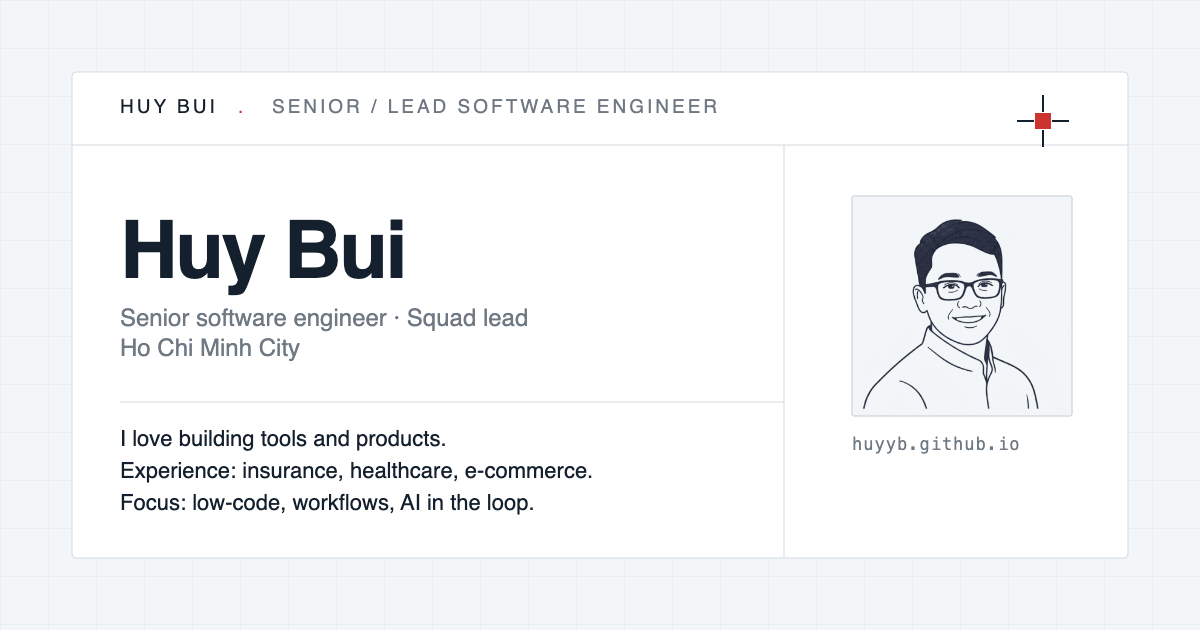
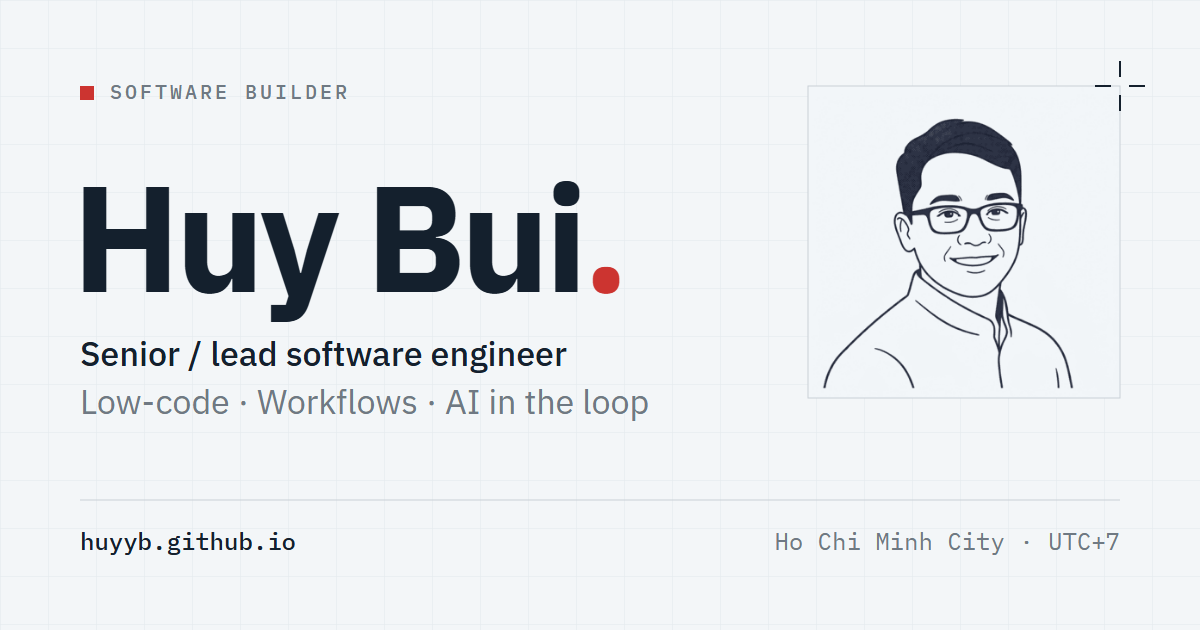
feat: redesign the social card
Larger type and no card-in-a-card frame, so it still reads at feed size.
og.svg now imports IBM Plex from Google Fonts; the old PNG had silently
fallen back to Arial. The render command waits for the font to load.

diff --git a/README.md b/README.md
@@ -66,9 +66,13 @@ To re-render the social card after editing `og.svg`:
 ```sh
 google-chrome \
   --headless --disable-gpu --hide-scrollbars --force-device-scale-factor=1 \
-  --window-size=1200,630 --screenshot="$PWD/assets/img/og.png" \
+  --window-size=1200,630 --virtual-time-budget=10000 \
+  --screenshot="$PWD/assets/img/og.png" \
   "file://$PWD/assets/img/og.svg"
 ```
+
+`--virtual-time-budget` gives the IBM Plex `@import` in `og.svg` time to load;
+without it (or offline) the card silently falls back to Helvetica/Arial.
 
 On macOS, `google-chrome` is the `Google Chrome.app` binary — either put it on
 your `PATH` or replace it with the full path into `Google Chrome.app/Contents/MacOS/`.
